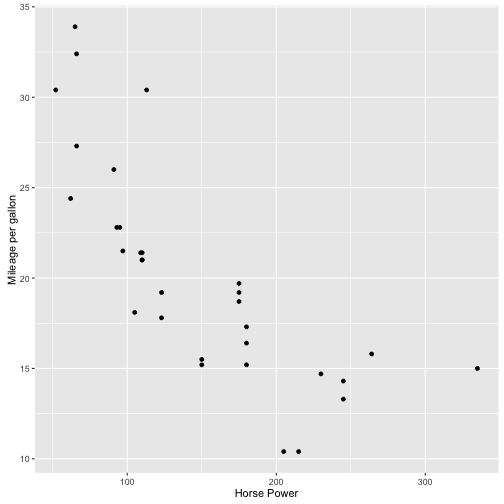
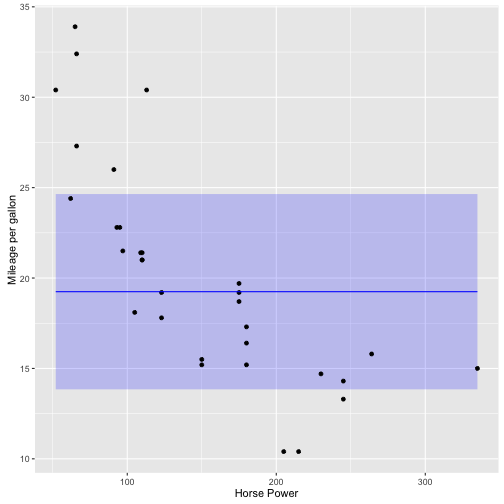
Test publich to gh

diff --git a/slides/index.html b/slides/index.html
@@ -8,19 +8,19 @@
   <meta name="generator" content="slidify" />
   <meta name="apple-mobile-web-app-capable" content="yes">
   <meta http-equiv="X-UA-Compatible" content="chrome=1">
-  <link rel="stylesheet" href="https://github.com/ramnathv/slidifyLibraries/tree/master/inst/libraries/frameworks/io2012/css/default.css" media="all" >
-  <link rel="stylesheet" href="https://github.com/ramnathv/slidifyLibraries/tree/master/inst/libraries/frameworks/io2012/css/phone.css" 
+  <link rel="stylesheet" href="libraries/frameworks/io2012/css/default.css" media="all" >
+  <link rel="stylesheet" href="libraries/frameworks/io2012/css/phone.css" 
     media="only screen and (max-device-width: 480px)" >
-  <link rel="stylesheet" href="https://github.com/ramnathv/slidifyLibraries/tree/master/inst/libraries/frameworks/io2012/css/slidify.css" >
-  <link rel="stylesheet" href="https://github.com/ramnathv/slidifyLibraries/tree/master/inst/libraries/highlighters/highlight.js/css/tomorrow.css" />
+  <link rel="stylesheet" href="libraries/frameworks/io2012/css/slidify.css" >
+  <link rel="stylesheet" href="libraries/highlighters/highlight.js/css/tomorrow.css" />
   <base target="_blank"> <!-- This amazingness opens all links in a new tab. -->  <link rel=stylesheet href="./assets/css/ribbons.css"></link>
 
   
   <!-- Grab CDN jQuery, fall back to local if offline -->
   <script src="http://ajax.aspnetcdn.com/ajax/jQuery/jquery-1.7.min.js"></script>
-  <script>window.jQuery || document.write('<script src="https://github.com/ramnathv/slidifyLibraries/tree/master/inst/libraries/widgets/quiz/js/jquery.js"><\/script>')</script> 
-  <script data-main="https://github.com/ramnathv/slidifyLibraries/tree/master/inst/libraries/frameworks/io2012/js/slides" 
-    src="https://github.com/ramnathv/slidifyLibraries/tree/master/inst/libraries/frameworks/io2012/js/require-1.0.8.min.js">
+  <script>window.jQuery || document.write('<script src="libraries/widgets/quiz/js/jquery.js"><\/script>')</script> 
+  <script data-main="libraries/frameworks/io2012/js/slides" 
+    src="libraries/frameworks/io2012/js/require-1.0.8.min.js">
   </script>
   
   
@@ -88,7 +88,7 @@
 
 <ul>
 <li>Predictors can be adjusted using three input widgets.</li>
-<li>Whenever one of the widget changes the following plot gets updates. </li>
+<li>Whenever one of the widget changes the plor gets updated. </li>
 </ul>
 
   </article>
@@ -106,7 +106,7 @@
 <li>data points (black)</li>
 </ul>
 
[1 lines of base64/hex data omitted]
+<p><img src="figure/unnamed-chunk-2-1.png" alt="plot of chunk unnamed-chunk-2"></p>
 
   </article>
   <!-- Presenter Notes -->
@@ -162,7 +162,7 @@
   <!-- Load Javascripts for Widgets -->
   
   <!-- LOAD HIGHLIGHTER JS FILES -->
-  <script src="https://github.com/ramnathv/slidifyLibraries/tree/master/inst/libraries/highlighters/highlight.js/highlight.pack.js"></script>
+  <script src="libraries/highlighters/highlight.js/highlight.pack.js"></script>
   <script>hljs.initHighlightingOnLoad();</script>
   <!-- DONE LOADING HIGHLIGHTER JS FILES -->
    

diff --git a/index.html b/index.html
@@ -1,64 +1,169 @@
-<!doctype html>
+<!DOCTYPE html>
 <html>
-  <head>
-    <meta charset="utf-8">
-    <meta http-equiv="X-UA-Compatible" content="chrome=1">
-    <title>Fuelconsumption by elibus</title>
+<head>
+  <title>Fuel Consumption</title>
+  <meta charset="utf-8">
+  <meta name="description" content="Fuel Consumption">
+  <meta name="author" content="Marco Tizzoni">
+  <meta name="generator" content="slidify" />
+  <meta name="apple-mobile-web-app-capable" content="yes">
+  <meta http-equiv="X-UA-Compatible" content="chrome=1">
+  <link rel="stylesheet" href="libraries/frameworks/io2012/css/default.css" media="all" >
+  <link rel="stylesheet" href="libraries/frameworks/io2012/css/phone.css" 
+    media="only screen and (max-device-width: 480px)" >
+  <link rel="stylesheet" href="libraries/frameworks/io2012/css/slidify.css" >
+  <link rel="stylesheet" href="libraries/highlighters/highlight.js/css/tomorrow.css" />
+  <base target="_blank"> <!-- This amazingness opens all links in a new tab. -->  <link rel=stylesheet href="./assets/css/ribbons.css"></link>
 
-    <link rel="stylesheet" href="stylesheets/styles.css">
-    <link rel="stylesheet" href="stylesheets/github-light.css">
-    <meta name="viewport" content="width=device-width">
-    <!--[if lt IE 9]>
-    <script src="//html5shiv.googlecode.com/svn/trunk/html5.js"></script>
-    <![endif]-->
-  </head>
-  <body>
-    <div class="wrapper">
-      <header>
-        <h1>Fuelconsumption</h1>
-        <p>Coursera Designing Data Product Course project</p>
+  
+  <!-- Grab CDN jQuery, fall back to local if offline -->
+  <script src="http://ajax.aspnetcdn.com/ajax/jQuery/jquery-1.7.min.js"></script>
+  <script>window.jQuery || document.write('<script src="libraries/widgets/quiz/js/jquery.js"><\/script>')</script> 
+  <script data-main="libraries/frameworks/io2012/js/slides" 
+    src="libraries/frameworks/io2012/js/require-1.0.8.min.js">
+  </script>
+  
+  
 
-        <p class="view"><a href="https://github.com/elibus/FuelConsumption">View the Project on GitHub <small>elibus/FuelConsumption</small></a></p>
-
-
-        <ul>
-          <li><a href="https://github.com/elibus/FuelConsumption/zipball/master">Download <strong>ZIP File</strong></a></li>
-          <li><a href="https://github.com/elibus/FuelConsumption/tarball/master">Download <strong>TAR Ball</strong></a></li>
-          <li><a href="https://github.com/elibus/FuelConsumption">View On <strong>GitHub</strong></a></li>
-        </ul>
-      </header>
-      <section>
-        <h3>
-<a id="welcome-to-github-pages" class="anchor" href="#welcome-to-github-pages" aria-hidden="true"><span aria-hidden="true" class="octicon octicon-link"></span></a>Welcome to GitHub Pages.</h3>
-
-<p>This automatic page generator is the easiest way to create beautiful pages for all of your projects. Author your page content here <a href="https://guides.github.com/features/mastering-markdown/">using GitHub Flavored Markdown</a>, select a template crafted by a designer, and publish. After your page is generated, you can check out the new <code>gh-pages</code> branch locally. If you’re using GitHub Desktop, simply sync your repository and you’ll see the new branch.</p>
-
-<h3>
-<a id="designer-templates" class="anchor" href="#designer-templates" aria-hidden="true"><span aria-hidden="true" class="octicon octicon-link"></span></a>Designer Templates</h3>
-
-<p>We’ve crafted some handsome templates for you to use. Go ahead and click 'Continue to layouts' to browse through them. You can easily go back to edit your page before publishing. After publishing your page, you can revisit the page generator and switch to another theme. Your Page content will be preserved.</p>
-
-<h3>
-<a id="creating-pages-manually" class="anchor" href="#creating-pages-manually" aria-hidden="true"><span aria-hidden="true" class="octicon octicon-link"></span></a>Creating pages manually</h3>
-
-<p>If you prefer to not use the automatic generator, push a branch named <code>gh-pages</code> to your repository to create a page manually. In addition to supporting regular HTML content, GitHub Pages support Jekyll, a simple, blog aware static site generator. Jekyll makes it easy to create site-wide headers and footers without having to copy them across every page. It also offers intelligent blog support and other advanced templating features.</p>
-
-<h3>
-<a id="authors-and-contributors" class="anchor" href="#authors-and-contributors" aria-hidden="true"><span aria-hidden="true" class="octicon octicon-link"></span></a>Authors and Contributors</h3>
-
-<p>You can @mention a GitHub username to generate a link to their profile. The resulting <code>&lt;a&gt;</code> element will link to the contributor’s GitHub Profile. For example: In 2007, Chris Wanstrath (<a href="https://github.com/defunkt" class="user-mention">@defunkt</a>), PJ Hyett (<a href="https://github.com/pjhyett" class="user-mention">@pjhyett</a>), and Tom Preston-Werner (<a href="https://github.com/mojombo" class="user-mention">@mojombo</a>) founded GitHub.</p>
-
-<h3>
-<a id="support-or-contact" class="anchor" href="#support-or-contact" aria-hidden="true"><span aria-hidden="true" class="octicon octicon-link"></span></a>Support or Contact</h3>
-
-<p>Having trouble with Pages? Check out our <a href="https://help.github.com/pages">documentation</a> or <a href="https://github.com/contact">contact support</a> and we’ll help you sort it out.</p>
-      </section>
-      <footer>
-        <p>This project is maintained by <a href="https://github.com/elibus">elibus</a></p>
-        <p><small>Hosted on GitHub Pages &mdash; Theme by <a href="https://github.com/orderedlist">orderedlist</a></small></p>
-      </footer>
-    </div>
-    <script src="javascripts/scale.fix.js"></script>
+</head>
+<body style="opacity: 0">
+  <slides class="layout-widescreen">
     
-  </body>
-</html>
+    <!-- LOGO SLIDE -->
+        <slide class="title-slide segue nobackground">
+  <hgroup class="auto-fadein">
+    <h1>Fuel Consumption</h1>
+    <h2>An application to estimates mileage</h2>
+    <p>Marco Tizzoni<br/></p>
+  </hgroup>
+  <article></article>  
+</slide>
+    
+
+    <!-- SLIDES -->
+    <slide class="" id="slide-1" style="background:;">
+  <hgroup>
+    <h2>Fuel Consumption</h2>
+  </hgroup>
+  <article data-timings="">
+    <p>Fuel Consumption:</p>
+
+<ul>
+<li>uses the R <code>mtcars</code> dataset</li>
+<li>predicts mileage per gallon (<code>mpg</code>) of cars</li>
+</ul>
+
+<pre><code>## &#39;data.frame&#39;:    32 obs. of  11 variables:
+##  $ mpg : num  21 21 22.8 21.4 18.7 18.1 14.3 24.4 22.8 19.2 ...
+##  $ cyl : num  6 6 4 6 8 6 8 4 4 6 ...
+##  $ disp: num  160 160 108 258 360 ...
+##  $ hp  : num  110 110 93 110 175 105 245 62 95 123 ...
+##  $ drat: num  3.9 3.9 3.85 3.08 3.15 2.76 3.21 3.69 3.92 3.92 ...
+##  $ wt  : num  2.62 2.88 2.32 3.21 3.44 ...
+##  $ qsec: num  16.5 17 18.6 19.4 17 ...
+##  $ vs  : num  0 0 1 1 0 1 0 1 1 1 ...
+##  $ am  : Factor w/ 2 levels &quot;Auto&quot;,&quot;Manual&quot;: 2 2 2 1 1 1 1 1 1 1 ...
+##  $ gear: num  4 4 4 3 3 3 3 4 4 4 ...
+##  $ carb: num  4 4 1 1 2 1 4 2 2 4 ...
+</code></pre>
+
+  </article>
+  <!-- Presenter Notes -->
+</slide>
+
+<slide class="" id="slide-2" style="background:;">
+  <hgroup>
+    <h2>Predictors</h2>
+  </hgroup>
+  <article data-timings="">
+    <p>Three predictors are used:</p>
+
+<ol>
+<li>Horse Power (<code>hp</code>)</li>
+<li>Weigth (<code>wt</code>)</li>
+<li>Transmission Type (<code>am</code>)</li>
+</ol>
+
+<p>Also:</p>
+
+<ul>
+<li>Predictors can be adjusted using three input widgets.</li>
+<li>Whenever one of the widget changes the plor gets updated. </li>
+</ul>
+
+  </article>
+  <!-- Presenter Notes -->
+</slide>
+
+<slide class="" id="slide-3" style="background:;">
+  <hgroup>
+    <h2>Prediction plot</h2>
+  </hgroup>
+  <article data-timings="">
+    <ul>
+<li>the prediction (blue line) </li>
+<li>the 95% confidence interval (light blue box)</li>
+<li>data points (black)</li>
+</ul>
+
+<p><img src="figure/unnamed-chunk-2-1.png" alt="plot of chunk unnamed-chunk-2"></p>
+
+  </article>
+  <!-- Presenter Notes -->
+</slide>
+
+<slide class="" id="slide-4" style="background:;">
+  <hgroup>
+    <h2>Source code</h2>
+  </hgroup>
+  <article data-timings="">
+    <p><a href="https://github.com/elibus/FuelConsumption">https://github.com/elibus/FuelConsumption</a></p>
+
+  </article>
+  <!-- Presenter Notes -->
+</slide>
+
+    <slide class="backdrop"></slide>
+  </slides>
+  <div class="pagination pagination-small" id='io2012-ptoc' style="display:none;">
+    <ul>
+      <li>
+      <a href="#" target="_self" rel='tooltip' 
+        data-slide=1 title='Fuel Consumption'>
+         1
+      </a>
+    </li>
+    <li>
+      <a href="#" target="_self" rel='tooltip' 
+        data-slide=2 title='Predictors'>
+         2
+      </a>
+    </li>
+    <li>
+      <a href="#" target="_self" rel='tooltip' 
+        data-slide=3 title='Prediction plot'>
+         3
+      </a>
+    </li>
+    <li>
+      <a href="#" target="_self" rel='tooltip' 
+        data-slide=4 title='Source code'>
+         4
+      </a>
+    </li>
+  </ul>
+  </div>  <!--[if IE]>
+    <script 
+      src="http://ajax.googleapis.com/ajax/libs/chrome-frame/1/CFInstall.min.js">  
+    </script>
+    <script>CFInstall.check({mode: 'overlay'});</script>
+  <![endif]-->
+</body>
+  <!-- Load Javascripts for Widgets -->
+  
+  <!-- LOAD HIGHLIGHTER JS FILES -->
+  <script src="libraries/highlighters/highlight.js/highlight.pack.js"></script>
+  <script>hljs.initHighlightingOnLoad();</script>
+  <!-- DONE LOADING HIGHLIGHTER JS FILES -->
+   
+  </html>

diff --git a/slides/index.md b/slides/index.md
@@ -6,8 +6,8 @@ framework   : io2012        # {io2012, html5slides, shower, dzslides, ...}
 highlighter : highlight.js  # {highlight.js, prettify, highlight}
 hitheme     : tomorrow      # 
 widgets     : []            # {mathjax, quiz, bootstrap}
-mode        : standalone # {standalone, draft}
-lib_cdn     : "https://github.com/ramnathv/slidifyLibraries/tree/master/inst/libraries"
+mode        : selfcontained # {standalone, draft}
+#lib_cdn     : "https://github.com/ramnathv/slidifyLibraries/tree/master/inst/libraries"
 --- 
 
 ## Fuel Consumption
@@ -44,7 +44,7 @@ Three predictors are used:
 
 Also:
  * Predictors can be adjusted using three input widgets.
- * Whenever one of the widget changes the following plot gets updates. 
+ * Whenever one of the widget changes the plor gets updated. 
 
 ---
 
@@ -53,7 +53,7 @@ Also:
  * the 95% confidence interval (light blue box)
  * data points (black)
 
-![plot of chunk unnamed-chunk-2](assets/fig/unnamed-chunk-2-1.png)
+![plot of chunk unnamed-chunk-2](figure/unnamed-chunk-2-1.png)
 
 ---
 
